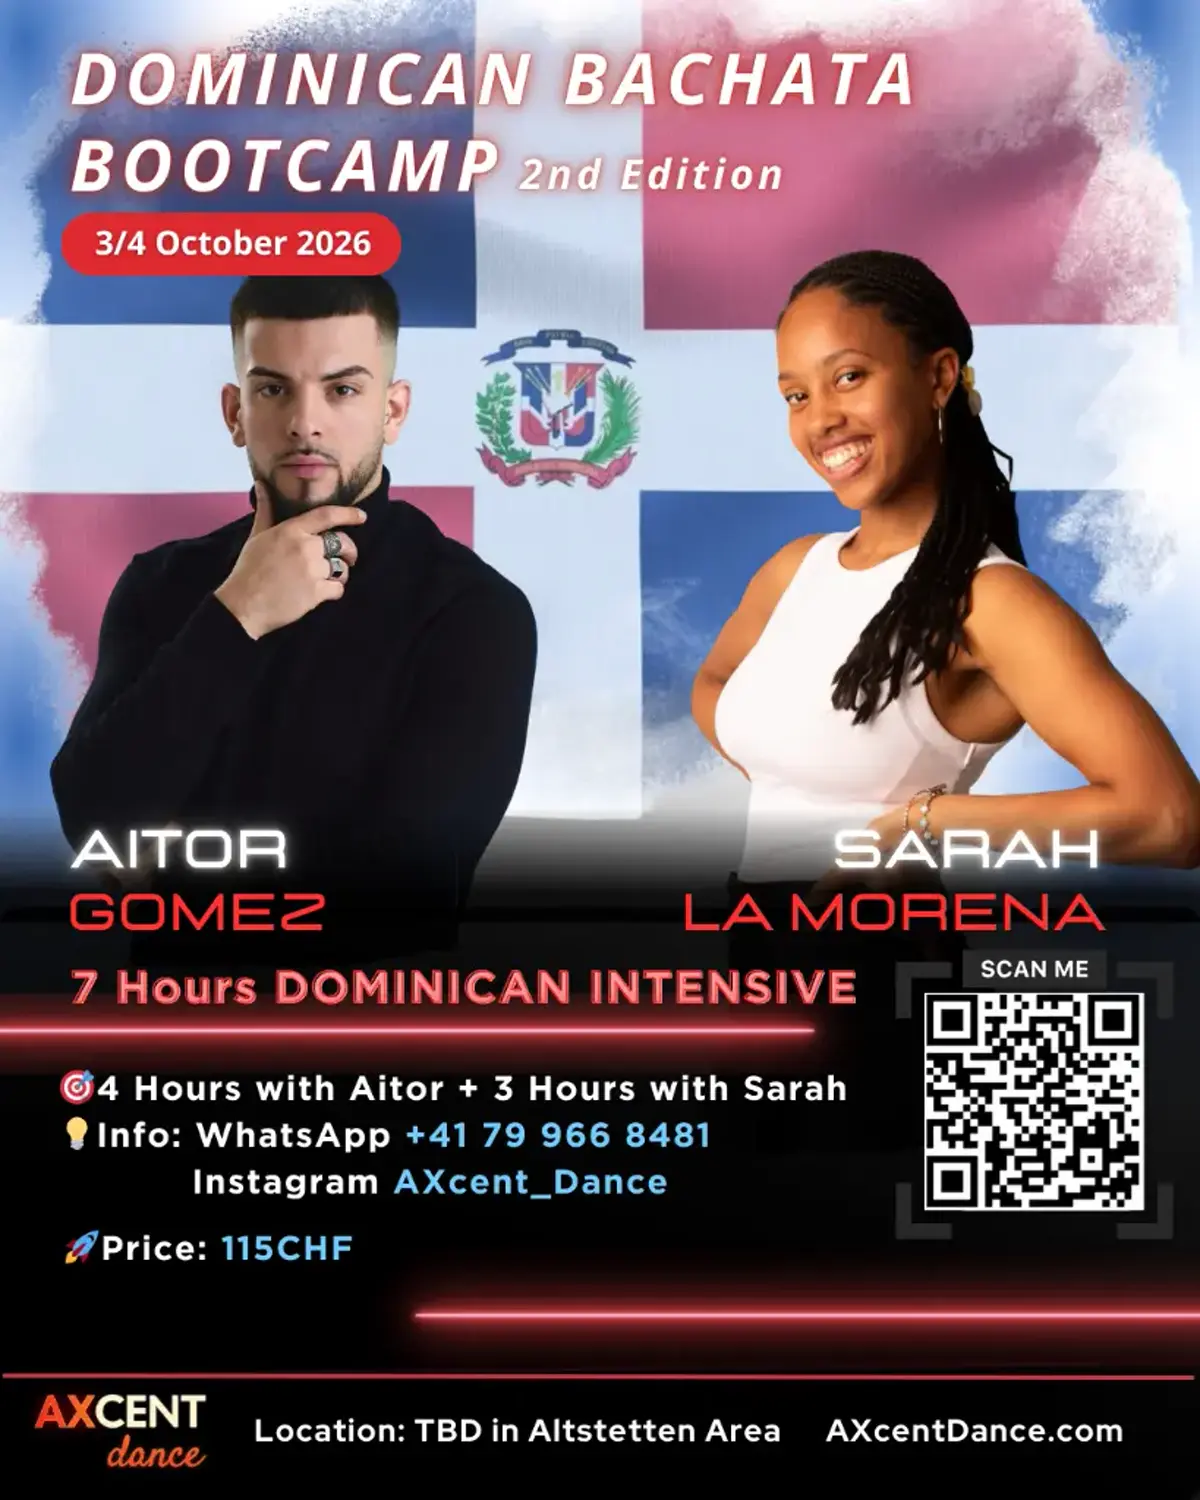
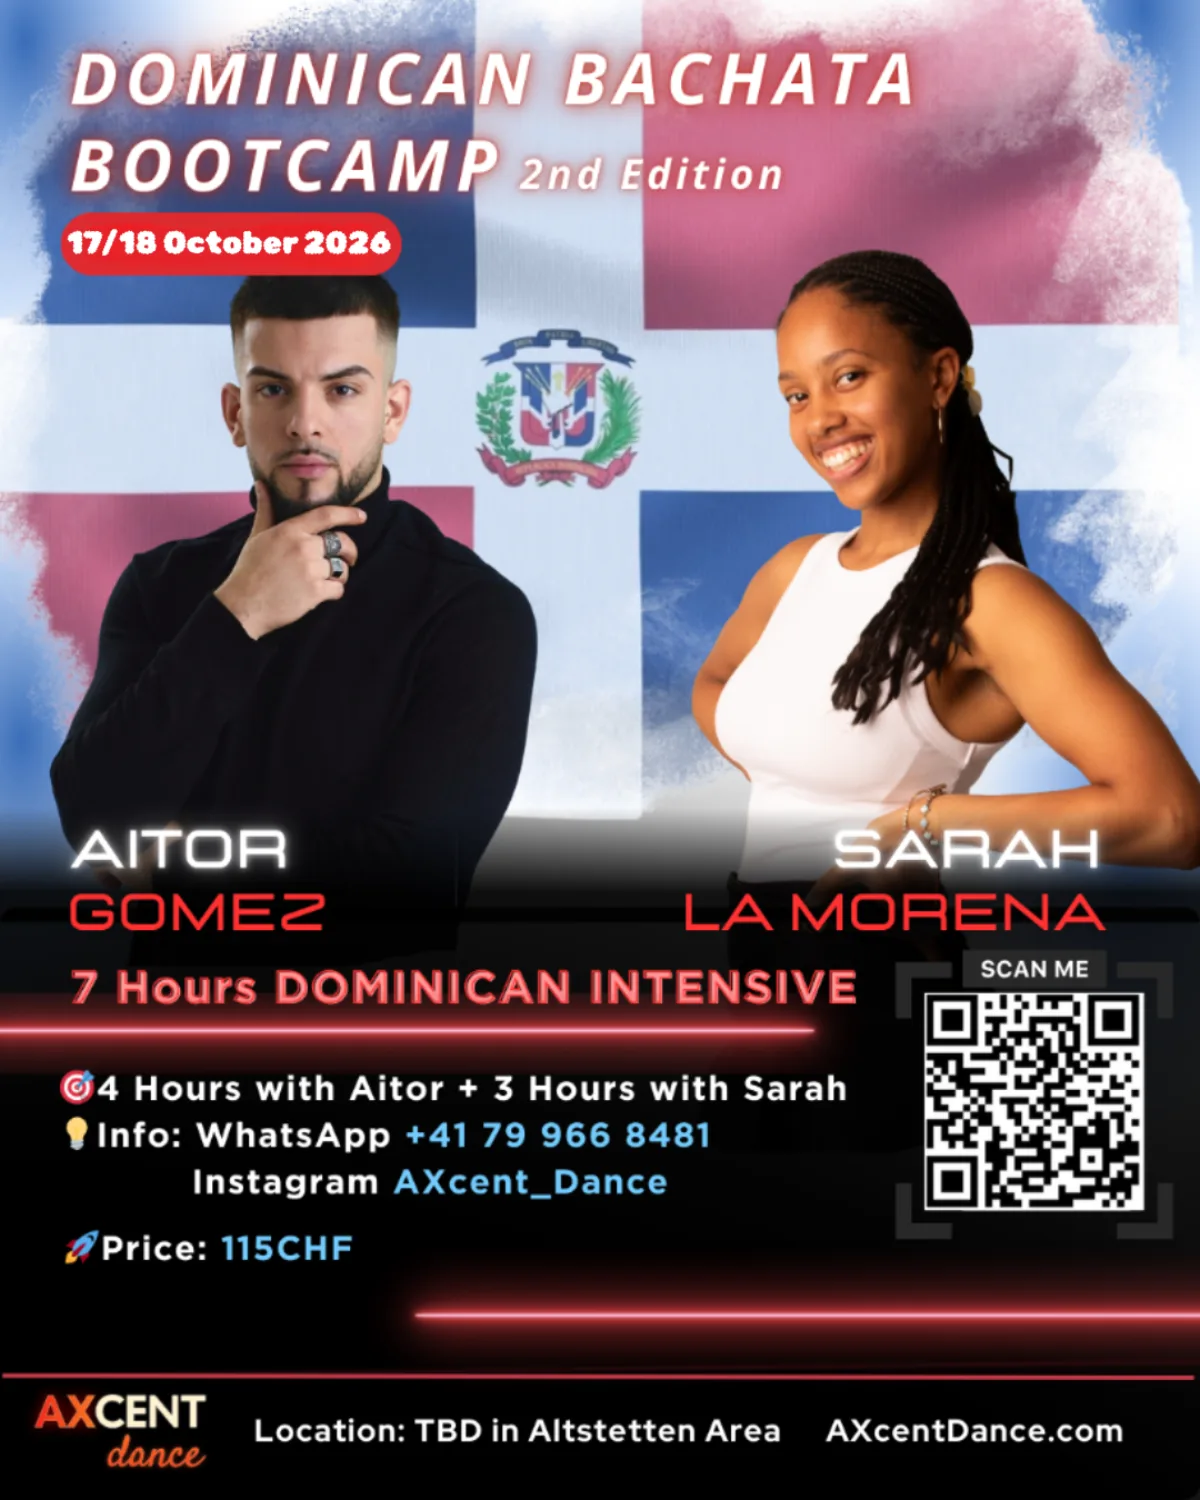
Update Dominican bootcamp flyer

diff --git a/de/blog-posts/dominican-bachata-bootcamp-aitor-sara.html b/de/blog-posts/dominican-bachata-bootcamp-aitor-sara.html
@@ -21,7 +21,7 @@
     <meta property="og:title" content="Dominican Bachata Bootcamp mit Aitor & Sarah: Das Original in Zürich">
     <meta property="og:description"
         content="7 Stunden. 2 Internationale Meister. 1 Unvergessliches Wochenende. Komm zu Aitor & Sarah für das ultimative Dominican Bachata Erlebnis in Zürich.">
-    <meta property="og:image" content="https://axcentdance.com/assets/images/dominican_bootcamp.webp">
+    <meta property="og:image" content="https://axcentdance.com/assets/images/dominican_bootcamp_1200w.webp">
     <meta property="og:url" content="https://axcentdance.com/de/blog-posts/dominican-bachata-bootcamp-aitor-sara">
     <meta property="og:site_name" content="AXcent Dance">
 
@@ -30,7 +30,7 @@
     <meta name="twitter:title" content="Dominican Bachata Bootcamp Zürich 2026">
     <meta name="twitter:description"
         content="Trainiere mit Aitor Gomez & Sarah La Morena in Zürich. 7 Stunden purer Dominican Bachata Flow und Technik.">
-    <meta name="twitter:image" content="https://axcentdance.com/assets/images/dominican_bootcamp.webp">
+    <meta name="twitter:image" content="https://axcentdance.com/assets/images/dominican_bootcamp_1200w.webp">
     <meta http-equiv="Content-Security-Policy"
         content="default-src 'self'; script-src 'self' 'unsafe-inline' https://www.googletagmanager.com https://cdn.jsdelivr.net https://connect.facebook.net; style-src 'self' 'unsafe-inline' https://fonts.googleapis.com; img-src 'self' data: https://*.google-analytics.com https://*.googletagmanager.com https://placehold.co https://*.googleapis.com https://*.gstatic.com https://www.facebook.com https://connect.facebook.net; font-src 'self' https://fonts.gstatic.com; connect-src 'self' https://*.google-analytics.com https://*.analytics.google.com https://script.google.com https://formsubmit.co https://www.facebook.com https://connect.facebook.net; frame-src 'self' https://www.google.com; object-src 'none'; base-uri 'self'; media-src 'self' blob:; worker-src 'self' blob:;">
 
@@ -88,7 +88,7 @@
       },
       "description": "Das größte Dominican Bachata Event in Zürich! 7 Stunden Intensiv-Training mit den internationalen Stars Aitor Gomez & Sarah La Morena am 17./18. Okt 2026.",
       "image": {
-        "@id": "https://axcentdance.com/assets/images/dominican_bootcamp.webp#primaryimage"
+        "@id": "https://axcentdance.com/assets/images/dominican_bootcamp_1200w.webp#primaryimage"
       },
       "mainEntityOfPage": {
         "@id": "https://axcentdance.com/de/blog-posts/dominican-bachata-bootcamp-aitor-sara#webpage"
@@ -99,8 +99,8 @@
     },
     {
       "@type": "ImageObject",
-      "@id": "https://axcentdance.com/assets/images/dominican_bootcamp.webp#primaryimage",
-      "url": "https://axcentdance.com/assets/images/dominican_bootcamp.webp",
+      "@id": "https://axcentdance.com/assets/images/dominican_bootcamp_1200w.webp#primaryimage",
+      "url": "https://axcentdance.com/assets/images/dominican_bootcamp_1200w.webp",
       "width": 1200,
       "height": 1500
     },
@@ -345,7 +345,7 @@
         <article class="post-container post-content">
             <img src="../../assets/images/dominican_bootcamp.webp"
                 srcset="../../assets/images/dominican_bootcamp_480w.webp 480w, ../../assets/images/dominican_bootcamp_800w.webp 800w, ../../assets/images/dominican_bootcamp_1200w.webp 1200w"
-                sizes="(max-width: 800px) 100vw, 800px" alt="Dominican Bachata Bootcamp Flyer" width="819" height="1024"
+                sizes="(max-width: 800px) 100vw, 800px" alt="Dominican Bachata Bootcamp Flyer mit Aitor Gomez und Sarah La Morena" width="1080" height="1350"
                 class="post-hero-image" style="margin-bottom: 2rem;">
             <p>
                 Zürich, seid ihr bereit für den echten Flavor?

diff --git a/blog-posts/dominican-bachata-bootcamp-aitor-sara.html b/blog-posts/dominican-bachata-bootcamp-aitor-sara.html
@@ -21,7 +21,7 @@
     <meta property="og:title" content="Dominican Bachata Bootcamp with Aitor & Sarah: Is This The Real Deal?">
     <meta property="og:description"
         content="7 Hours. 2 International Masters. 1 Unforgettable Weekend. Join Aitor & Sarah for the ultimate Dominican Bachata experience in Zurich.">
-    <meta property="og:image" content="https://axcentdance.com/assets/images/dominican_bootcamp.webp">
+    <meta property="og:image" content="https://axcentdance.com/assets/images/dominican_bootcamp_1200w.webp">
     <meta property="og:url" content="https://axcentdance.com/blog-posts/dominican-bachata-bootcamp-aitor-sara">
     <meta property="og:site_name" content="AXcent Dance">
 
@@ -30,7 +30,7 @@
     <meta name="twitter:title" content="Dominican Bachata Bootcamp Zurich 2026">
     <meta name="twitter:description"
         content="Train with Aitor Gomez & Sarah La Morena in Zurich. 7 hours of pure Dominican Bachata flow and technique.">
-    <meta name="twitter:image" content="https://axcentdance.com/assets/images/dominican_bootcamp.webp">
+    <meta name="twitter:image" content="https://axcentdance.com/assets/images/dominican_bootcamp_1200w.webp">
     <meta http-equiv="Content-Security-Policy"
         content="default-src 'self'; script-src 'self' 'unsafe-inline' https://www.googletagmanager.com https://cdn.jsdelivr.net https://connect.facebook.net; style-src 'self' 'unsafe-inline' https://fonts.googleapis.com; img-src 'self' data: https://*.google-analytics.com https://*.googletagmanager.com https://placehold.co https://*.googleapis.com https://*.gstatic.com https://www.facebook.com https://connect.facebook.net; font-src 'self' https://fonts.gstatic.com; connect-src 'self' https://*.google-analytics.com https://*.analytics.google.com https://script.google.com https://formsubmit.co https://www.facebook.com https://connect.facebook.net; frame-src 'self' https://www.google.com; object-src 'none'; base-uri 'self'; media-src 'self' blob:; worker-src 'self' blob:;">
 
@@ -88,7 +88,7 @@
       },
       "description": "Join the biggest Dominican Bachata event in Zurich! 7 hours of intensive training with international stars Aitor Gomez & Sarah La Morena on Oct 17-18, 2026.",
       "image": {
-        "@id": "https://axcentdance.com/assets/images/dominican_bootcamp.webp#primaryimage"
+        "@id": "https://axcentdance.com/assets/images/dominican_bootcamp_1200w.webp#primaryimage"
       },
       "mainEntityOfPage": {
         "@id": "https://axcentdance.com/blog-posts/dominican-bachata-bootcamp-aitor-sara#webpage"
@@ -99,8 +99,8 @@
     },
     {
       "@type": "ImageObject",
-      "@id": "https://axcentdance.com/assets/images/dominican_bootcamp.webp#primaryimage",
-      "url": "https://axcentdance.com/assets/images/dominican_bootcamp.webp",
+      "@id": "https://axcentdance.com/assets/images/dominican_bootcamp_1200w.webp#primaryimage",
+      "url": "https://axcentdance.com/assets/images/dominican_bootcamp_1200w.webp",
       "width": 1200,
       "height": 1500
     },
@@ -343,7 +343,7 @@
         <article class="post-container post-content">
             <img src="../assets/images/dominican_bootcamp.webp"
                 srcset="../assets/images/dominican_bootcamp_480w.webp 480w, ../assets/images/dominican_bootcamp_800w.webp 800w, ../assets/images/dominican_bootcamp_1200w.webp 1200w"
-                sizes="(max-width: 800px) 100vw, 800px" alt="Dominican Bachata Bootcamp Flyer" width="819" height="1024"
+                sizes="(max-width: 800px) 100vw, 800px" alt="Dominican Bachata Bootcamp flyer with Aitor Gomez and Sarah La Morena" width="1080" height="1350"
                 class="post-hero-image" style="margin-bottom: 2rem;">
             <p>
                 Zurich, are you ready for the real flavor?

diff --git a/de/events.html b/de/events.html
@@ -93,7 +93,7 @@
                 "validFrom": "2025-01-01"
             },
             "image": [
-                "https://axcentdance.com/assets/images/dominican_bootcamp.webp"
+                "https://axcentdance.com/assets/images/dominican_bootcamp_1200w.webp"
             ],
             "description": "7 Stunden intensives Dominican Bachata Bootcamp mit den internationalen Künstlern Aitor Gomez & Sarah La Morena in Zürich.",
             "organizer": {
@@ -589,7 +589,8 @@
                     <img src="../assets/images/dominican_bootcamp.webp"
                         srcset="../assets/images/dominican_bootcamp_480w.webp 480w, ../assets/images/dominican_bootcamp_800w.webp 800w, ../assets/images/dominican_bootcamp_1200w.webp 1200w"
                         sizes="(max-width: 600px) 480px, (max-width: 900px) 800px, 1200px"
-                        alt="Dominican Bachata Bootcamp" width="819" height="1024" class="featured-image">
+                        alt="Dominican Bachata Bootcamp Flyer mit Aitor Gomez und Sarah La Morena" width="1080"
+                        height="1350" class="featured-image">
                 </div>
                 <div class="featured-content">
                     <span style="color: var(--accent-start); font-weight: 700; font-size: 0.9rem;">17.-18. OKTOBER

diff --git a/events.html b/events.html
@@ -93,7 +93,7 @@
                 "validFrom": "2025-01-01"
             },
             "image": [
-                "https://axcentdance.com/assets/images/dominican_bootcamp.webp"
+                "https://axcentdance.com/assets/images/dominican_bootcamp_1200w.webp"
             ],
             "description": "7 Hours Intensive Dominican Bachata Bootcamp with international artists Aitor Gomez & Sarah La Morena in Zurich.",
             "organizer": {
@@ -589,7 +589,8 @@
                     <img src="assets/images/dominican_bootcamp.webp"
                         srcset="assets/images/dominican_bootcamp_480w.webp 480w, assets/images/dominican_bootcamp_800w.webp 800w, assets/images/dominican_bootcamp_1200w.webp 1200w"
                         sizes="(max-width: 600px) 480px, (max-width: 900px) 800px, 1200px"
-                        alt="Dominican Bachata Bootcamp" width="819" height="1024" class="featured-image">
+                        alt="Dominican Bachata Bootcamp flyer with Aitor Gomez and Sarah La Morena" width="1080"
+                        height="1350" class="featured-image">
                 </div>
                 <div class="featured-content">
                     <span style="color: var(--accent-start); font-weight: 700; font-size: 0.9rem;">OCTOBER 17-18,

diff --git a/de/dominican-bootcamp.html b/de/dominican-bootcamp.html
@@ -63,7 +63,7 @@
       "eventStatus": "https://schema.org/EventScheduled",
       "eventAttendanceMode": "https://schema.org/OfflineEventAttendanceMode",
       "image": [
-        "https://axcentdance.com/assets/images/dominican_bootcamp.webp"
+        "https://axcentdance.com/assets/images/dominican_bootcamp_1200w.webp"
       ],
       "location": {
         "@type": "Place",
@@ -563,7 +563,8 @@
                     <img src="../assets/images/dominican_bootcamp.webp"
                         srcset="../assets/images/dominican_bootcamp_480w.webp 480w, ../assets/images/dominican_bootcamp_800w.webp 800w, ../assets/images/dominican_bootcamp_1200w.webp 1200w"
                         sizes="(max-width: 600px) 480px, (max-width: 900px) 800px, 1200px"
-                        alt="Dominican Bachata Bootcamp" width="819" height="1024" class="event-image-large">
+                        alt="Dominican Bachata Bootcamp Flyer mit Aitor Gomez und Sarah La Morena" width="1080"
+                        height="1350" class="event-image-large">
                 </div>
 
                 <div class="event-card-floating">

diff --git a/dominican-bootcamp.html b/dominican-bootcamp.html
@@ -63,7 +63,7 @@
       "eventStatus": "https://schema.org/EventScheduled",
       "eventAttendanceMode": "https://schema.org/OfflineEventAttendanceMode",
       "image": [
-        "https://axcentdance.com/assets/images/dominican_bootcamp.webp"
+        "https://axcentdance.com/assets/images/dominican_bootcamp_1200w.webp"
       ],
       "location": {
         "@type": "Place",
@@ -563,7 +563,8 @@
                     <img src="assets/images/dominican_bootcamp.webp"
                         srcset="assets/images/dominican_bootcamp_480w.webp 480w, assets/images/dominican_bootcamp_800w.webp 800w, assets/images/dominican_bootcamp_1200w.webp 1200w"
                         sizes="(max-width: 600px) 480px, (max-width: 900px) 800px, 1200px"
-                        alt="Dominican Bachata Bootcamp" width="819" height="1024" class="event-image-large">
+                        alt="Dominican Bachata Bootcamp flyer with Aitor Gomez and Sarah La Morena" width="1080"
+                        height="1350" class="event-image-large">
                 </div>
 
                 <div class="event-card-floating">

diff --git a/de/blog.html b/de/blog.html
@@ -541,7 +541,7 @@
                         <img src="../assets/images/dominican_bootcamp.webp"
                             srcset="../assets/images/dominican_bootcamp_480w.webp 480w, ../assets/images/dominican_bootcamp_800w.webp 800w, ../assets/images/dominican_bootcamp_1200w.webp 1200w"
                             sizes="(max-width: 600px) 480px, (max-width: 900px) 800px, 1200px"
-                            alt="Dominican Bachata Bootcamp mit Aitor & Sarah" width="819" height="1024" loading="lazy"
+                            alt="Dominican Bachata Bootcamp Flyer mit Aitor Gomez und Sarah La Morena" width="1080" height="1350" loading="lazy"
                             class="card-image" style="object-position: top;">
                     </div>
                     <div class="card-body">

diff --git a/blog.html b/blog.html
@@ -539,7 +539,7 @@
                         <img src="assets/images/dominican_bootcamp.webp"
                             srcset="assets/images/dominican_bootcamp_480w.webp 480w, assets/images/dominican_bootcamp_800w.webp 800w, assets/images/dominican_bootcamp_1200w.webp 1200w"
                             sizes="(max-width: 600px) 480px, (max-width: 900px) 800px, 1200px"
-                            alt="Dominican Bachata Bootcamp with Aitor & Sarah" width="819" height="1024" loading="lazy"
+                            alt="Dominican Bachata Bootcamp flyer with Aitor Gomez and Sarah La Morena" width="1080" height="1350" loading="lazy"
                             class="card-image" style="object-position: top;">
                     </div>
                     <div class="card-body">
